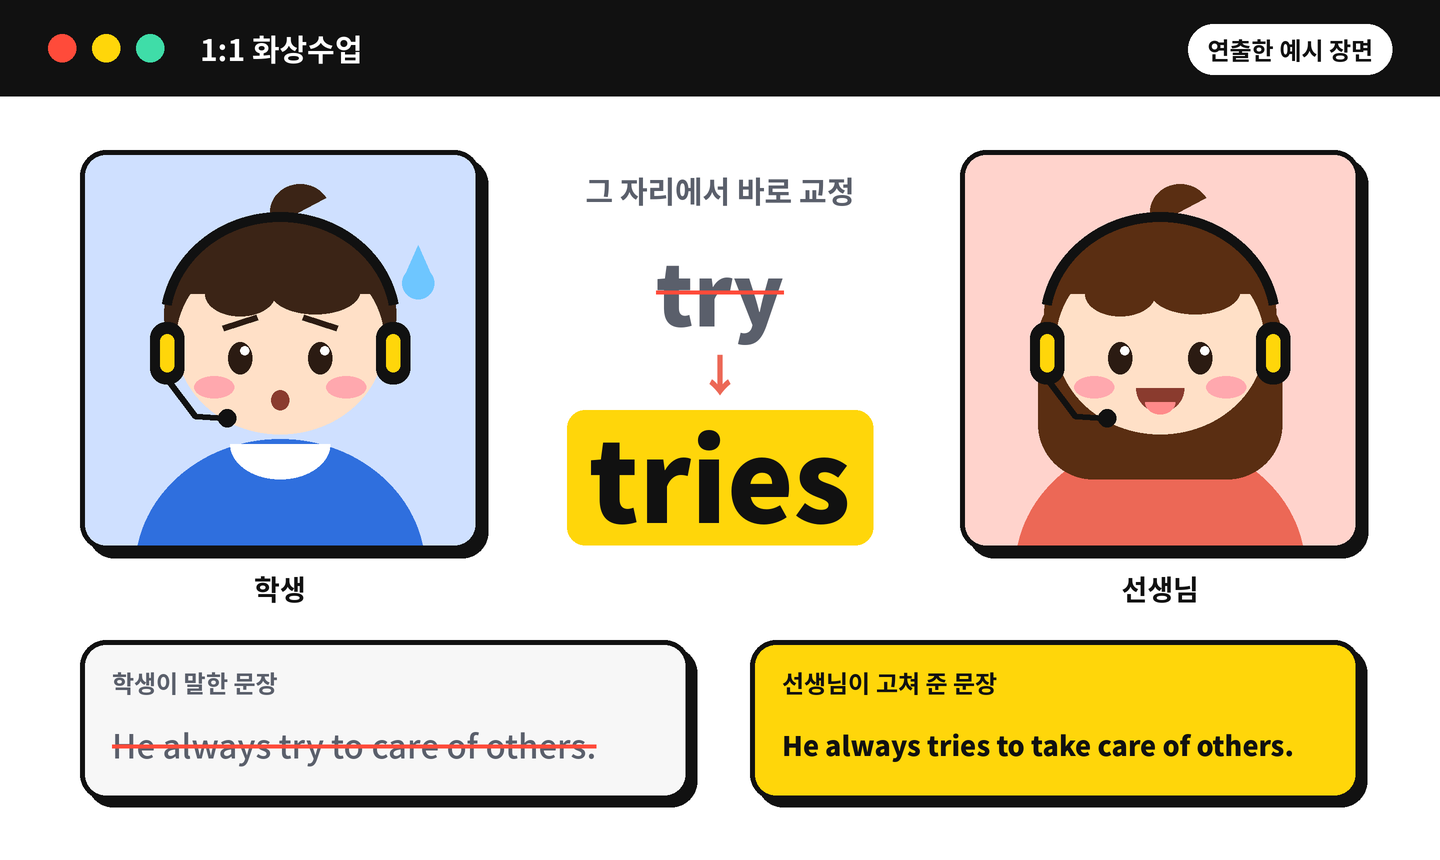
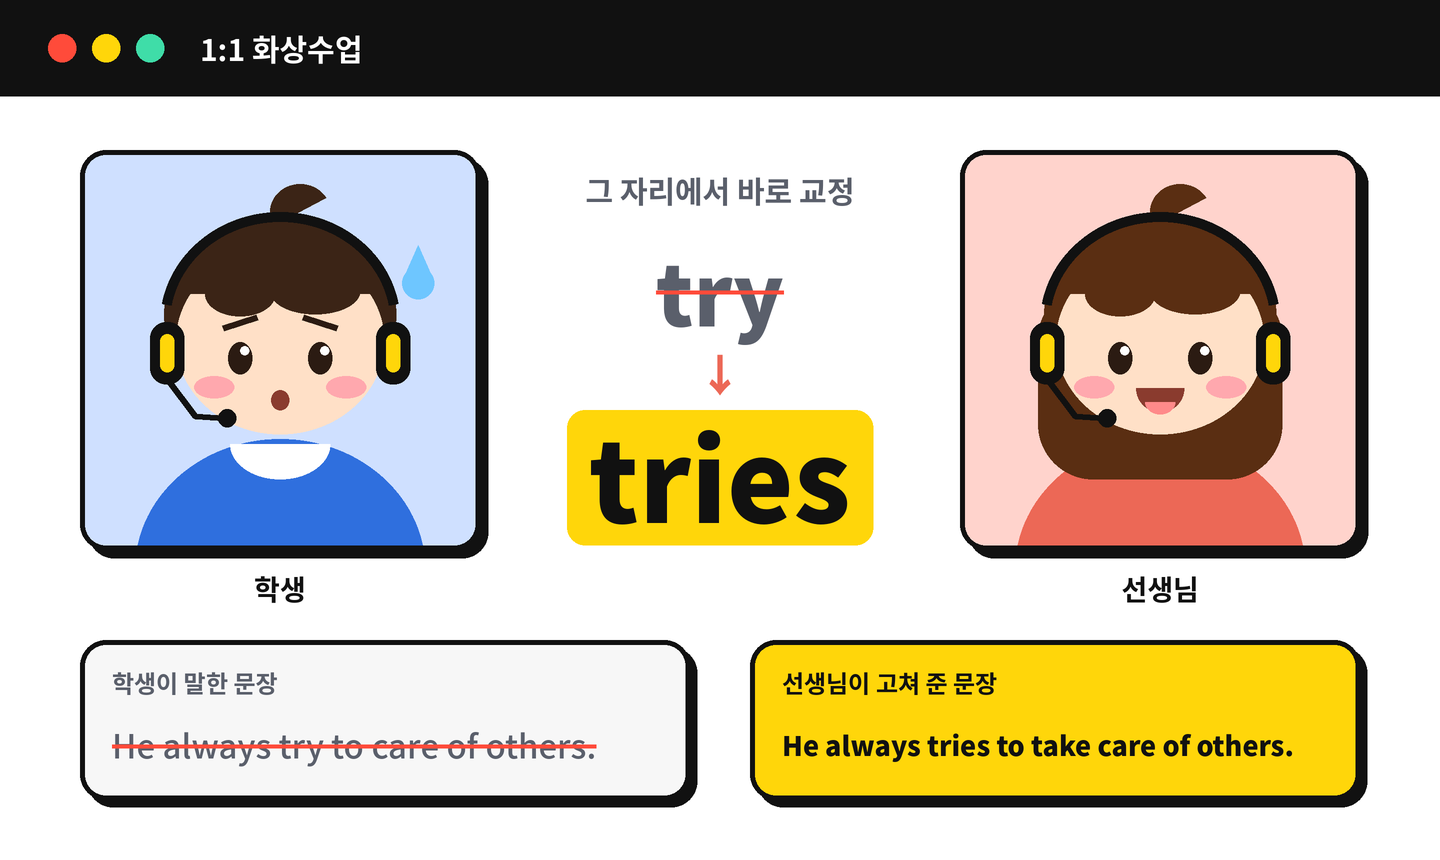
Remove staged-example label from about hero illustration
Claude-Session: https://claude.ai/code/session_01HUwuhgDghhNRq5em17ycBb

Changed region(s): [[0.8125, 0.0302, 0.9688, 0.0907]]

diff --git a/about-assets/tools/about_images.py b/about-assets/tools/about_images.py
@@ -24,7 +24,7 @@ def hero(name):
     W_,H_=1440,860; im=canvas(W_,H_,WHITE); d=ImageDraw.Draw(im)
     R(d,(0,0,W_,96),0,fill=INK)
     for i,c in enumerate((RED,YEL,MINT)): E(d,(48+i*44,34,76+i*44,62),fill=c)
-    T(d,(200,48),'1:1 화상수업',F('Bold',30),WHITE,'lm'); pill(d,W_-48,24,'연출한 예시 장면',24,fill=WHITE,fg=INK,right=True)
+    T(d,(200,48),'1:1 화상수업',F('Bold',30),WHITE,'lm')
     tile(im,(80,150,480,550),'#CFE0FF',mood='think',**STU); tile(im,(960,150,1360,550),'#FFD3CC',**TEA); d=ImageDraw.Draw(im)
     T(d,(280,588),'학생',F('Bold',28),INK,'mm'); T(d,(1160,588),'선생님',F('Bold',28),INK,'mm')
     T(d,(720,190),'그 자리에서 바로 교정',F('Bold',30),GRAY,'mm')
